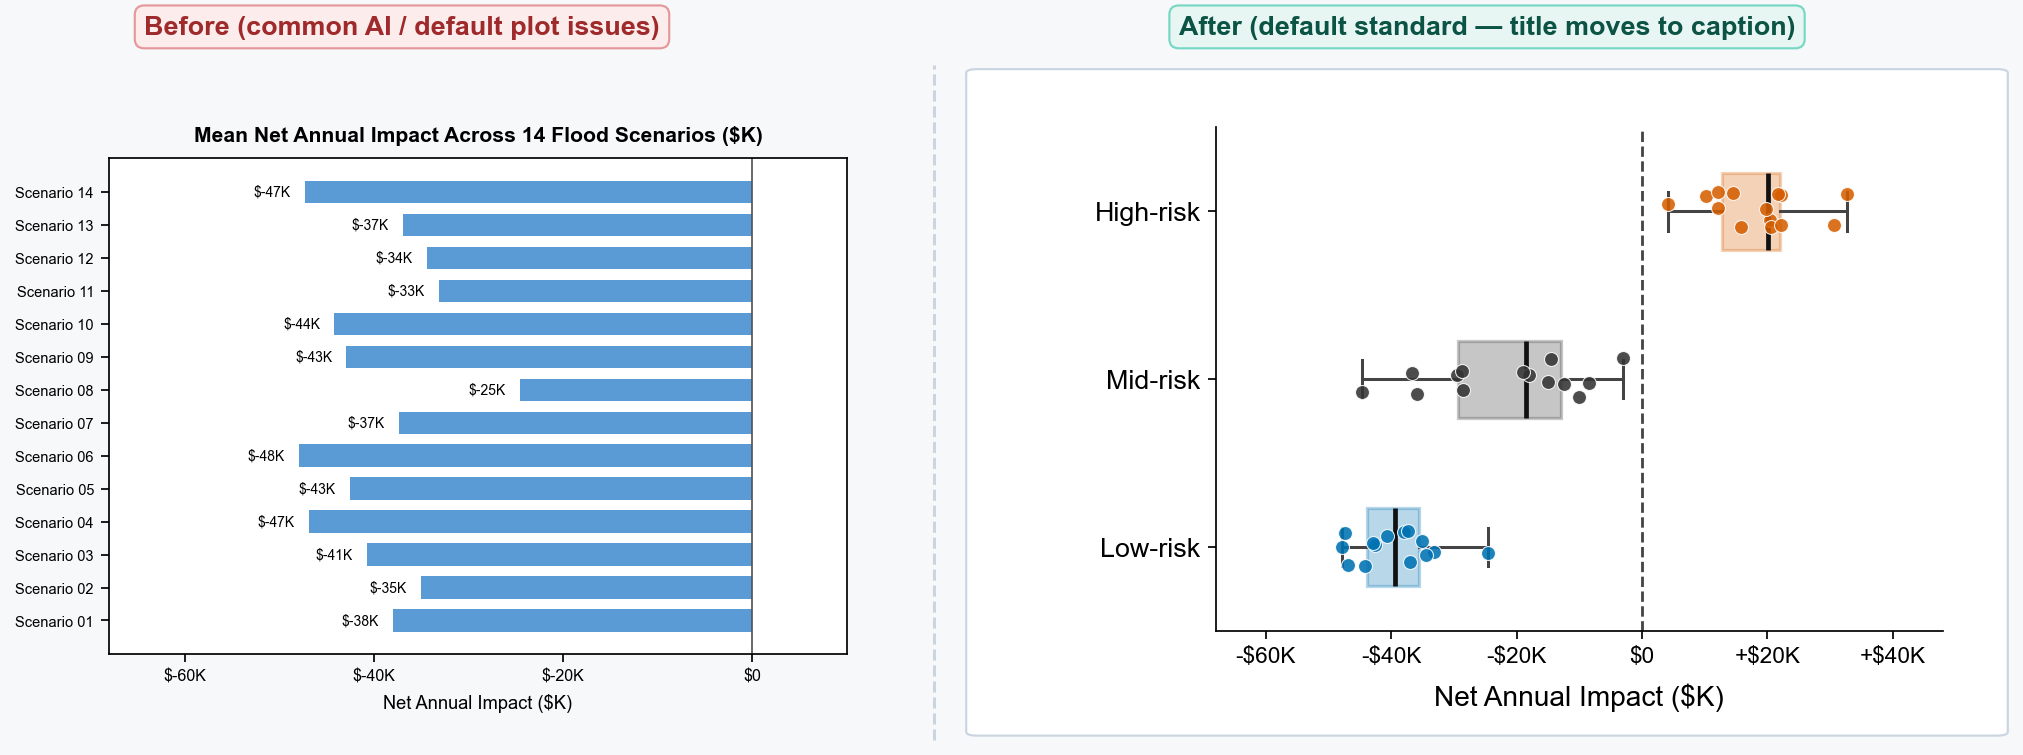
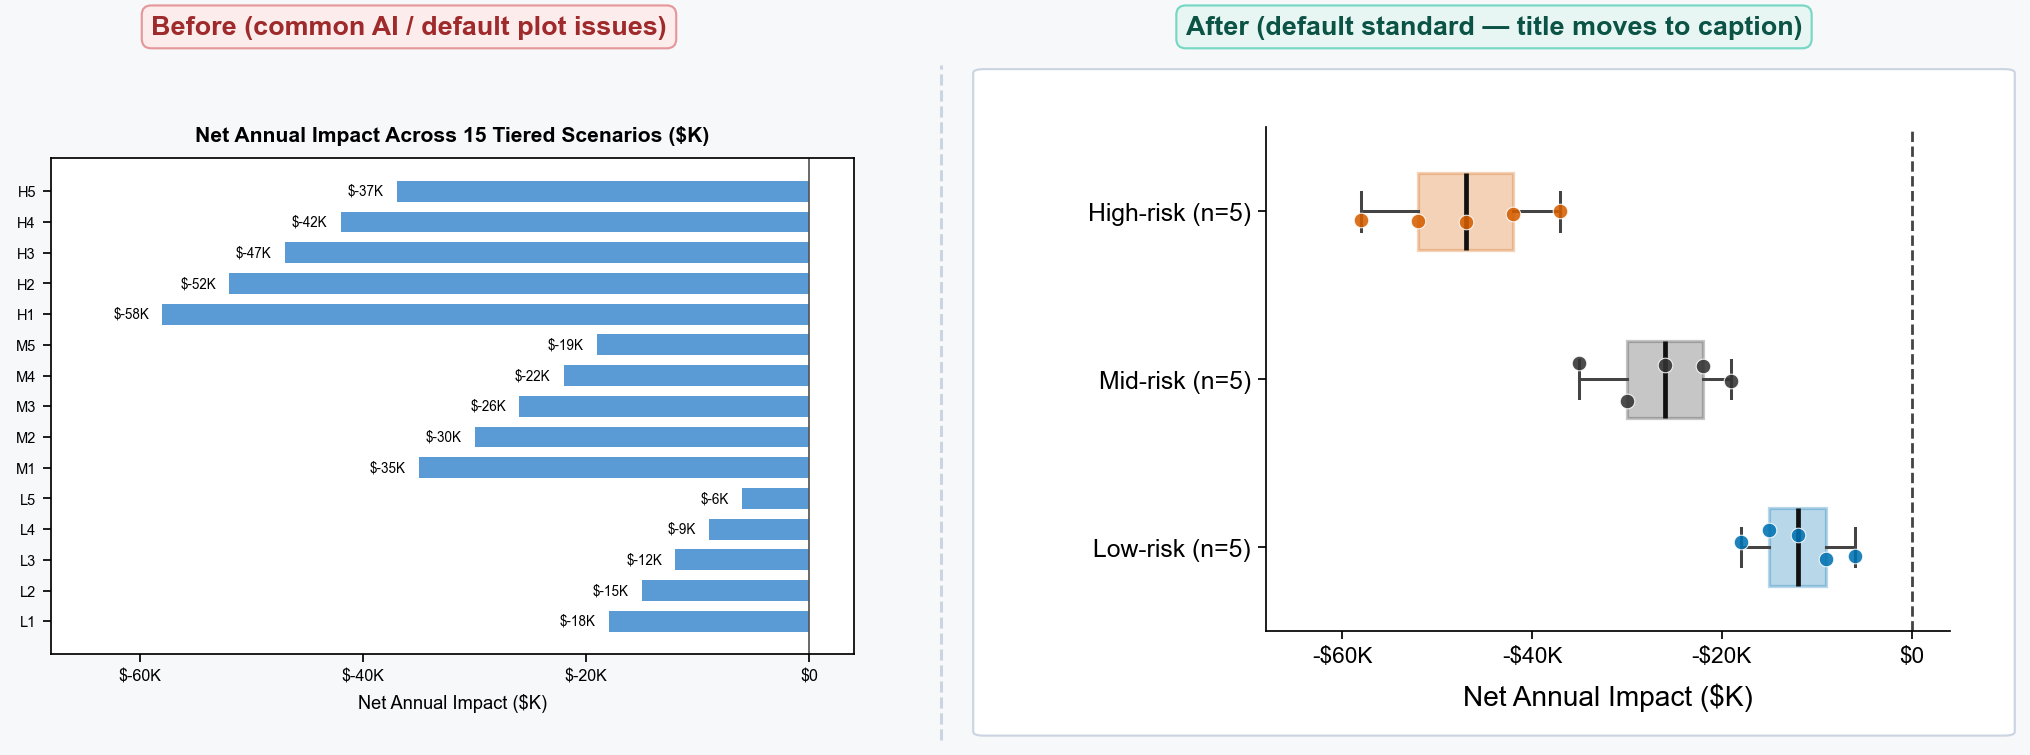
fix(display): condition >10 boxplot rule and clarify test-summary check
Address PR #54 automated review P2 findings across EN, zh-TW, and zh-CN:
- Condition >10 category boxplot+jitter summaries on compatible underlying
  observations and explicit grouping rationale, preserving category identities
  with dot plot, small multiples, or table when ungrouped; align
  ex3_distribution_{en,zh-TW,zh-CN}.png so both panels plot the exact same
  15 tiered scenario estimates (5 per tier).
- Clarify test-summary checks in display-notation-provenance and
  figures-tables-and-supplements to inspect what estimand a statistical test
  actually compares and require caption disclosure when it differs from the
  plotted summary statistic, rather than forcing fixed pairings.

Reviewer: Independent Code Reviewer v1.5.0 (verdict: APPROVE; trigger: #1/#4)

diff --git a/skills/academic-writing-skills/references/figures-tables-and-supplements.md b/skills/academic-writing-skills/references/figures-tables-and-supplements.md
@@ -170,8 +170,8 @@ Unless an active [venue profile](overlay-contract.md) requires otherwise:
 3. **Generous typography and spacious composition:** size labels for print readability (`14–16 pt` axis labels, `13–15 pt` tick/legend text at standard two-panel figure width) with wide inter-panel gaps (`wspace >= 0.35`) rather than cramped panels.
 4. **External non-overlapping legends:** place shared multi-panel legends outside the axes (centered above or below with `frameon=False`), never inside the plotting box covering bars, curves, or error bars.
 5. **No value labels printed on bars/points and no floating threshold text inside axes:** keep exact numbers in companion three-line tables or captions. Represent evaluation cutoffs with a dashed reference line, a **dedicated cutoff tick** on the axis (omitting colliding neighbor ticks such as `0.10` beside `0.08`), and an axis-label parenthetical such as `RMSEA (threshold <= 0.08)`.
-6. **Distribution summary for more than ten constructs or groups:** summarize `>10` subscales/categories using horizontal boxplots with jittered points rather than cramped multi-row bar charts, reserving construct-level numbers for a companion table.
-7. **Accessible palette, currency signs, stat-star alignment, and trilingual fonts:** use a high-contrast colorblind-safe palette (`#333333` observed/human benchmark, `#0072B2` blue, `#D55E00` vermilion); place the minus sign before currency symbols (`-$40K`, never `$-40K`); match significance stars (`*`) to the plotted summary statistic (median vs mean) or state both; and configure safe font stacks (`Arial` for English, `Microsoft JhengHei` with math `$\leq$` for Traditional Chinese, `Microsoft YaHei` or `SimHei` for Simplified Chinese, plus `axes.unicode_minus = False`).
+6. **Many-category layout conditioned on compatible source data:** when `>10` scenarios, runs, or items share compatible underlying observations and an explicit grouping rationale, summarize them with horizontal boxplots and jittered points while reporting item-level numbers in a companion table; when each category has only a single distinct point estimate without a justified pooling structure, preserve individual category identities with a dot plot, small multiples, or a table rather than pooling unrelated constructs.
+7. **Accessible palette, currency signs, test–summary clarity, and trilingual fonts:** use a high-contrast colorblind-safe palette (`#333333` observed/human benchmark, `#0072B2` blue, `#D55E00` vermilion); place the minus sign before currency symbols (`-$40K`, never `$-40K`); ensure significance markers (`*`) reflect what the statistical test actually compares and state both the plotted summary and the test target in the caption whenever they differ; and configure safe font stacks (`Arial` for English, `Microsoft JhengHei` with math `$\leq$` for Traditional Chinese, `Microsoft YaHei` or `SimHei` for Simplified Chinese, plus `axes.unicode_minus = False`).
 
 ### Default Three-Line Data Table Standard
 

diff --git a/docs/USER_GUIDE.md b/docs/USER_GUIDE.md
@@ -181,4 +181,4 @@ Suppose you submit a hydrology/adaptation study that evaluates synthetic survey 
    - **Paragraph blueprint (`WHAT / WHY / HOW`):** Move 1 (Watershed risk & survey cost) -> Move 2 (Route-grouped prior work: statistical projections vs mechanistic ABMs, strengths and limits) -> Move 3 (Bounded gap in multi-wave community updating) -> Move 4 (Augmented-prompt evaluation + `SQ1–SQ2` with explicit nonclaims against individual clinical/behavioral replacement).
    - **Host-register & guest-term onboarding:** First mention of `zero-shot LLM` explains it functionally as a general-purpose text model prompted with anonymized household records without parameter retraining.
 2. **Claim, transition, and display tightening:** Replaces *"In today's rapidly evolving landscape... LLM agents accurately replicate human behavior (`RMSE = 0.04`) and can replace field surveys"* with *"While multi-wave household surveys track storm-driven insurance shifts, repeating them across changing basins is costly; under the history-augmented prompt (which also lengthens the input prompt) on N = 840 households, Wave 2 group-mean error reached 0.04 on the 0–1 scale, whereas individual change errors lagged a zero-change carry-forward baseline and cannot replace field surveys."*
-3. **Four representative Before/After displays (`./images/examples/`):** Clean `(a)`/`(b)` multi-panel figures with external legends (`ex1_multipanel_en.png`), threshold-tick bar plots without in-bar text (`ex2_threshold_en.png`), boxplot + jitter for >10 constructs with `-$40K` formatting (`ex3_distribution_en.png`), and three-line tables stating `N`, `95% CI`, and legacy-subset notes (`ex4_table_en.png`).
+3. **Four representative Before/After displays (`./images/examples/`):** Clean `(a)`/`(b)` multi-panel figures with external legends (`ex1_multipanel_en.png`), threshold-tick bar plots without in-bar text (`ex2_threshold_en.png`), boxplot + jitter for >10 pre-grouped scenarios with compatible data (`-$40K` formatting; dot plot or table when ungrouped, `ex3_distribution_en.png`), and three-line tables stating `N`, `95% CI`, and legacy-subset notes (`ex4_table_en.png`).

diff --git a/docs/USER_GUIDE.zh-CN.md b/docs/USER_GUIDE.zh-CN.md
@@ -180,4 +180,4 @@ python skills/academic-writing-skills/scripts/run_regression_tests.py
 2. **简中坏 AI 段落与修订结果：**
    - **修改前（AI 八股套语＋未解术语＋越界结论）：**「在当今快速发展的智慧水利时代背景下，大语言模型发挥着至关重要的作用……目前尚无任何水文学研究探索过零样本随机角色提示词条件化……智能体取得 0.04 误差，证明合成受访者已精准复现人类行为并可完全替代实地调查。」
    - **修改后（水资源主轴＋白话引导＋条件与推断边界）：**「尽管多波次问卷能够追踪暴雨后的投保变化，反复抽样成本仍高；既有的回归智能体受限于预设方程，因此本研究检验零样本大语言模型（依据去标识化档案生成评分的文本模型）在增补前期经历提示条件（伴随提示词延长）下对 *N* = 840 家庭的模拟表现。第 2 波群体均值误差为 0.04，但个体跨波变化误差仍高于零变化基线规则，尚不足以替代概率抽样实地调查。」
-3. **四张代表性科学图表修改前后对照：** 分别展示多子图去标题与图外图例（`ex1_multipanel_zh-CN.png`）、误差阈值专属刻度 `0.08` 与轴标签注释（`ex2_threshold_zh-CN.png`）、超过 10 个构念改用箱线＋散点与 `-$40K` 格式（`ex3_distribution_zh-CN.png`），以及三线表样本量与旧版定义区分（`ex4_table_zh-CN.png`）；完整图库位于 `./images/examples/`。
+3. **四张代表性科学图表修改前后对照：** 分别展示多子图去标题与图外图例（`ex1_multipanel_zh-CN.png`）、误差阈值专属刻度 `0.08` 与轴标签注释（`ex2_threshold_zh-CN.png`）、超过 10 个具明确分组依据情景改用箱线＋散点与 `-$40K` 格式（无合理分组时改用点图，`ex3_distribution_zh-CN.png`），以及三线表样本量与旧版定义区分（`ex4_table_zh-CN.png`）；完整图库位于 `./images/examples/`。

diff --git a/skills/paper-review/references/display-notation-provenance.md b/skills/paper-review/references/display-notation-provenance.md
@@ -54,4 +54,4 @@ Apply the base severity and evidence-status system. Do not make a cosmetic notat
 
 ## Boundary Between Quantitative Displays and Architecture Diagrams
 
-Check schematic workflows and system architecture diagrams strictly for **text–diagram consistency** (matching construct labels, arrow/stage direction, condition definitions, and sample/step counts). Do not treat Matplotlib box-and-arrow plots as the standard format for architecture diagrams; schematic diagrams belong in dedicated vector/HTML workflows (`diagram-design`). For quantitative data figures and tables on rendered pages, check for baked-in image titles that duplicate captions, in-plot value or threshold text colliding with bars/error intervals, crowded neighbor ticks beside reference lines (such as `0.10` adjacent to `0.08`), inside legends covering data, misplaced minus signs (`$-40K` instead of `-$40K`), and mismatched test–summary alignment (parametric stars plotted on medians or vice versa).
+Check schematic workflows and system architecture diagrams strictly for **text–diagram consistency** (matching construct labels, arrow/stage direction, condition definitions, and sample/step counts). Do not treat Matplotlib box-and-arrow plots as the standard format for architecture diagrams; schematic diagrams belong in dedicated vector/HTML workflows (`diagram-design`). For quantitative data figures and tables on rendered pages, check for baked-in image titles that duplicate captions, in-plot value or threshold text colliding with bars/error intervals, crowded neighbor ticks beside reference lines (such as `0.10` adjacent to `0.08`), inside legends covering data, misplaced minus signs (`$-40K` instead of `-$40K`), and unexplained test–summary mismatches (check what estimand the statistical test actually compares and whether the caption explains any difference from the plotted summary statistic, rather than assuming a fixed parametric/non-parametric pairing).

diff --git a/docs/USER_GUIDE.zh-TW.md b/docs/USER_GUIDE.zh-TW.md
@@ -180,4 +180,4 @@ python skills/academic-writing-skills/scripts/run_regression_tests.py
 2. **繁中壞 AI 段落與修訂結果：**
    - **修改前（AI 空洞套語＋未解術語＋越界結論）：**「在當今快速演進的防洪領域中，LLM 扮演著至關重要的核心角色……過去從未有任何研究探討過零樣本隨機角色提示條件化……模型達成 0.04 誤差，證明模擬受試者已完美複製人類行為並可全面取代實體調查。」
    - **修改後（水資源主軸＋白話引導＋條件與推論邊界）：**「雖然多波次問卷能追蹤風災後投保變化，反覆施測成本仍高；既有的迴歸代理人受限於預設函式，因此本研究測試零樣本大型語言模型（依去識別化背景生成評分的文字模型）於增補前期經歷條件（伴隨提示變長）下對 *N* = 840 家戶的推估表現。第 2 波群體均值誤差為 0.04，但個體跨波變化誤差仍劣於零變化基準規則，尚不足以取代實體抽樣調查。」
-3. **四張代表性科學圖表修改前後對照：** 分別展現多子圖去標題與圖外圖例（`ex1_multipanel_zh-TW.png`）、誤差門檻專屬刻度 `0.08` 與軸標籤註記（`ex2_threshold_zh-TW.png`）、超過 10 構念改採盒鬚＋散點與 `-$40K` 格式（`ex3_distribution_zh-TW.png`），以及三線表分母與舊版定義區隔（`ex4_table_zh-TW.png`）；完整圖庫位於 `./images/examples/`。
+3. **四張代表性科學圖表修改前後對照：** 分別展現多子圖去標題與圖外圖例（`ex1_multipanel_zh-TW.png`）、誤差門檻專屬刻度 `0.08` 與軸標籤註記（`ex2_threshold_zh-TW.png`）、超過 10 個具明確分組依據情境改採盒鬚＋散點與 `-$40K` 格式（無合理分組時改用點圖，`ex3_distribution_zh-TW.png`），以及三線表分母與舊版定義區隔（`ex4_table_zh-TW.png`）；完整圖庫位於 `./images/examples/`。

diff --git a/CHANGELOG.md b/CHANGELOG.md
@@ -17,7 +17,7 @@ marketplace; see that repo's CHANGELOG for the catalog-side history.
 
 - Mandatory Pre-Draft Alignment Blueprint (`Pause Before Full Section Prose`) for new Introductions, core sections, and structural reorganizations: outputs a first-sentence outline, `WHAT / WHY / HOW` + claim/evidence/boundary/bridge table, and host-journal register with plain-language first-use onboarding of borrowed terms before drafting full paragraphs.
 - Four-move Introduction narrative funnel and scope-contrast transition pattern across English, Traditional Chinese, and Simplified Chinese guides.
-- Default scientific data-figure and three-line table conventions (zero baked-in figure titles, `(a)` `(b)` `(c)` panel tags, generous print-size typography and `wspace`, outside-axis legends, no in-plot value/threshold text clutter, dedicated cutoff ticks, boxplot+jitter for >10 constructs, `-$40K` formatting, and CJK-safe font stacks), while excluding conceptual/architecture flowcharts from Matplotlib and routing them to diagram workflows (`diagram-design`).
+- Default scientific data-figure and three-line table conventions (zero baked-in figure titles, `(a)` `(b)` `(c)` panel tags, generous print-size typography and `wspace`, outside-axis legends, no in-plot value/threshold text clutter, dedicated cutoff ticks, boxplot+jitter for >10 compatible pre-grouped items or dot-plot/table fallback, `-$40K` formatting, caption clarity when test target differs from plotted summary, and CJK-safe font stacks), while excluding conceptual/architecture flowcharts from Matplotlib and routing them to diagram workflows (`diagram-design`).
 - Ten-Point Anti-Miss Pre-Delivery Ledger across `execution-and-acceptance.md`, `paper-review/SKILL.md`, and the psychometric/LLM domain modules, plus chunked anti-timeout review discipline and synthetic Before/After walkthroughs in all three READMEs and usage guides.
 
 ### Changed

diff --git a/skills/paper-review-zh-tw/references/display-notation-provenance.md b/skills/paper-review-zh-tw/references/display-notation-provenance.md
@@ -59,4 +59,4 @@ source data or model output -> transformation or equation -> aggregation or norm
 
 ## 量化數據圖表與架構示意圖之審查邊界
 
-針對研究流程圖與系統架構圖，僅核對**圖文一致性**（確認構念名稱、箭頭／階段方向、條件定義及樣本／步驟數與正文相符），不將 Matplotlib 方塊拼圖視為架構圖標準——架構示意圖應交由專責向量／HTML 流程（`diagram-design`）。針對量化數據圖與表格的實際渲染頁面，額外查核圖內是否誤印與圖說重複的標題、數值或門檻文字是否遮擋柱狀／誤差棒、參考門檻旁是否存在碰撞刻度（如 `0.10` 緊鄰 `0.08`）、圖例是否置入圖內壓住數據、負金額是否誤寫（應為 `-$40K` 而非 `$-40K`），以及顯著星號是否與繪製的統計量（中位數無母數檢定對齊中位數或平均數對齊 t 檢定）一致。
+針對研究流程圖與系統架構圖，僅核對**圖文一致性**（確認構念名稱、箭頭／階段方向、條件定義及樣本／步驟數與正文相符），不將 Matplotlib 方塊拼圖視為架構圖標準——架構示意圖應交由專責向量／HTML 流程（`diagram-design`）。針對量化數據圖與表格的實際渲染頁面，額外查核圖內是否誤印與圖說重複的標題、數值或門檻文字是否遮擋柱狀／誤差棒、參考門檻旁是否存在碰撞刻度（如 `0.10` 緊鄰 `0.08`）、圖例是否置入圖內壓住數據、負金額是否誤寫（應為 `-$40K` 而非 `$-40K`），以及統計檢定與圖上摘要量是否出現未說明的不一致（應核對檢定實際比較的目標量，以及兩者不同時圖說是否清楚載明，而非機械假設固定的母數／無母數配對）。

diff --git a/skills/paper-review-zh-cn/references/display-notation-provenance.md b/skills/paper-review-zh-cn/references/display-notation-provenance.md
@@ -59,4 +59,4 @@ source data or model output -> transformation or equation -> aggregation or norm
 
 ## 量化数据图表与架构示意图之审查边界
 
-针对研究流程图与系统架构图，仅核对**图文一致性**（确认构念名称、箭头／阶段方向、条件定义及样本／步骤数与正文相符），不将 Matplotlib 方块拼图视为架构图标准——架构示意图应交由专责向量／HTML 流程（`diagram-design`）。针对量化数据图与表格的实际渲染页面，额外查核图内是否误印与图注重复的标题、数值或阈值文字是否遮挡柱状／误差棒、参考阈值旁是否存在碰撞刻度（如 `0.10` 紧邻 `0.08`）、图例是否置入图内压住数据、负金额是否误写（应为 `-$40K` 而非 `$-40K`），以及显著星号是否与绘制的统计量（中位数非参数检验对齐中位数或均值对齐 t 检验）一致。
+针对研究流程图与系统架构图，仅核对**图文一致性**（确认构念名称、箭头／阶段方向、条件定义及样本／步骤数与正文相符），不将 Matplotlib 方块拼图视为架构图标准——架构示意图应交由专责向量／HTML 流程（`diagram-design`）。针对量化数据图与表格的实际渲染页面，额外查核图内是否误印与图注重复的标题、数值或阈值文字是否遮挡柱状／误差棒、参考阈值旁是否存在碰撞刻度（如 `0.10` 紧邻 `0.08`）、图例是否置入图内压住数据、负金额是否误写（应为 `-$40K` 而非 `$-40K`），以及统计检验与图上摘要量是否出现未说明的不一致（应核对检验实际比较的目标量，以及两者不同时图注是否清楚载明，而非机械假设固定的参数／非参数配对）。

diff --git a/README.zh-CN.md b/README.zh-CN.md
@@ -146,7 +146,7 @@ Codex 或 ChatGPT 可使用可用的 skill／plugin 介面。其他 Agent Skills
 |---|---|
 | **1. 多子图 `(a)` `(b)` 布局、图外共用图例与色盲友好配色** | ![多子图轨迹对比修改前后](./docs/images/examples/ex1_multipanel_zh-CN.png) |
 | **2. 误差阈值线去除柱顶与图内文字遮挡（`RMSEA ≤ 0.08`）** | ![误差阈值图修改前后](./docs/images/examples/ex2_threshold_zh-CN.png) |
-| **3. 超过 10 个构念改用箱线＋抖动散点汇总（`-$40K` 格式）** | ![多构念分布汇总修改前后](./docs/images/examples/ex3_distribution_zh-CN.png) |
+| **3. 超过 10 个已分组情景改用箱线＋抖动散点汇总（`-$40K` 格式；无合理分组时改用点图）** | ![多构念分布汇总修改前后](./docs/images/examples/ex3_distribution_zh-CN.png) |
 | **4. 学术三线表（标明样本量 `N`、`95% CI` 与新旧题项范围注释）** | ![三线表修改前后](./docs/images/examples/ex4_table_zh-CN.png) |
 
 ## 适用界线与进一步说明

diff --git a/README.zh-TW.md b/README.zh-TW.md
@@ -146,7 +146,7 @@ Codex 或 ChatGPT 可使用可用的 skill／plugin 介面。其他 Agent Skills
 |---|---|
 | **1. 多子圖 `(a)` `(b)` 排版、圖外共用圖例與色盲友善盤** | ![多子圖軌跡比較修改前後](./docs/images/examples/ex1_multipanel_zh-TW.png) |
 | **2. 誤差門檻線去除柱頂與圖內文字遮擋（`RMSEA ≤ 0.08`）** | ![誤差門檻圖修改前後](./docs/images/examples/ex2_threshold_zh-TW.png) |
-| **3. 超過 10 個構念改以盒鬚＋抖動散點呈現（`-$40K` 格式）** | ![多構念分布摘要修改前後](./docs/images/examples/ex3_distribution_zh-TW.png) |
+| **3. 超過 10 個已分組情境改以盒鬚＋抖動散點呈現（`-$40K` 格式；無合理分組時改用點圖）** | ![多構念分布摘要修改前後](./docs/images/examples/ex3_distribution_zh-TW.png) |
 | **4. 學術三線表（明確分母 `N`、`95% CI` 與新舊題項範圍註記）** | ![三線表修改前後](./docs/images/examples/ex4_table_zh-TW.png) |
 
 ## 適用界線與進一步說明
